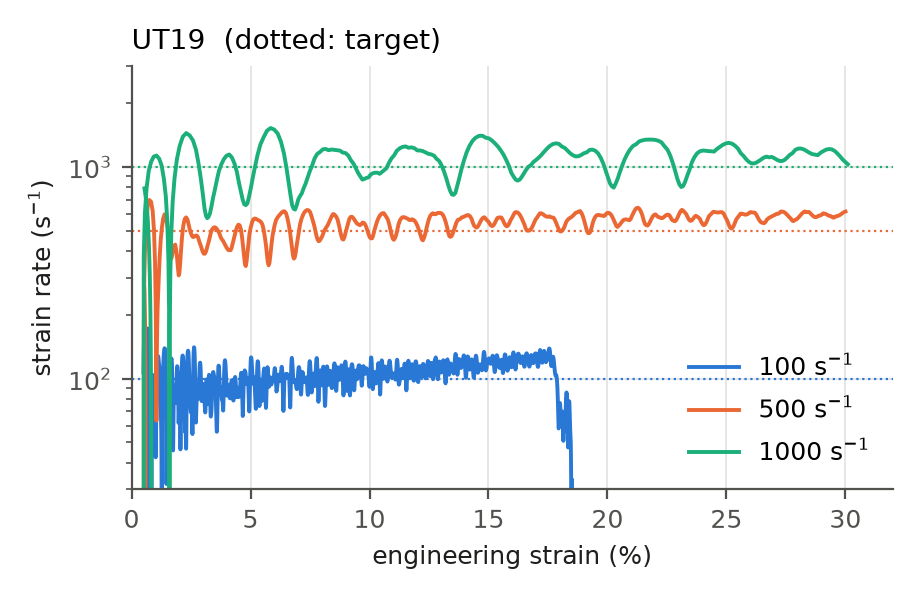
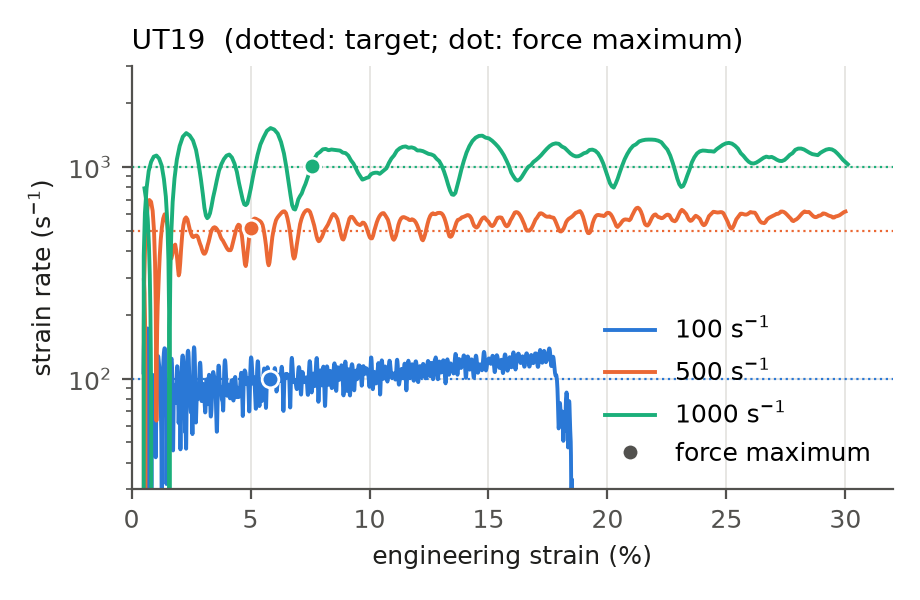
report.md : structure complete pour la Task I

diff --git a/shpb-ut-equilibrium/results/taskI_20261013-1554/report/report.md b/shpb-ut-equilibrium/results/taskI_20261013-1554/report/report.md
@@ -1,18 +1,37 @@
 # Task I - Force equilibrium and loading speeds in the SHPB with load inversion device
 
-Study `taskI_20261013-1554`, specimens: UT19. Generated by `scripts/post/report_taskI.py`; all numbers below are computed from the simulation outputs.
+Study `taskI_20261013-1554`, specimens: UT19. Generated by `scripts/post/report_taskI.py`; all numbers in the results sections are computed from the simulation outputs.
 
-## 1. Simulation and signal processing
+Questions of Task I: (1) can quasi-static force equilibrium be achieved in the specimen at nominal strain rates of 100, 500 and 1000 s⁻¹, and (2) which loading speeds are required to reach an engineering strain of 30 %?
 
-The complete bench (5 m striker, 6.01 m input bar, load inversion device, output bar and specimen) is modelled in Abaqus/Explicit using the symmetry plane (half model), without mass scaling. The specimen material is DP1000 with a rate-independent von Mises / isotropic hardening law: differences between strain rates therefore come from wave propagation and inertia only, not from material rate sensitivity.
+## 1. Model and assumptions
 
-The simulated signals are processed as in the experiments. Forces and strain are low-pass filtered (4th-order Butterworth, 100 kHz cut-off, zero phase), the cut-off used for the output bar strain gauge signal in the laboratory. The axial force is taken in two cross-sections at both ends of the specimen parallel section (F_in on the load inversion device side, F_out on the output bar side) and, as in the experiment, from the strain gauge on the output bar (F = A E ε). The gauge signal is shifted in time by 400 mm / 4871 m/s = 82 µs to the specimen (no dispersion correction). The engineering strain is measured by a 12 mm virtual extensometer on the parallel section, equivalent to the DIC extensometer.
+| Item | Model |
+|---|---|
+| Bench | Ø20 mm steel striker (5 m), maraging input bar (6.01 m), load inversion device (pusher), specimen and output bar (≈ 6 m), as in Beerli et al. (2026); virtual strain gauges at 400 mm on the input and output bars |
+| Symmetry | half model (symmetry plane through the bar axes) |
+| Mesh | bars and pusher rod: swept C3D8R, 5 mm axially, 2 mm in the section; pusher head and output bar head: C3D10M tetrahedra, 2 mm (M4 holes removed, small fillets merged by virtual topology); specimen: C3D8R, 0.5 mm in plane, 4 elements through the 1.5 mm thickness; ≈ 214 000 elements |
+| Solver | Abaqus/Explicit, double precision, **no mass scaling** (inertia is the studied effect); initial stable time increment ≈ 2e-8 s |
+| Bars and pusher | linear elastic maraging steel, E = ρc² with the measured wave speed c = 4871 m/s and ρ = 8000 kg/m³ (assumed); striker c = 4720 m/s, ρ = 7850 kg/m³ (assumed) |
+| Specimen | DP1000 (Beerli et al. 2026, table 4): E = 195 GPa, ν = 0.33, ρ = 7850 kg/m³, von Mises yield surface, isotropic Swift-Voce hardening, **rate independent**, no thermal effects, no fracture (same simplified material as the numerical study of the bench in Beerli et al. 2026, §2.5.1) |
+| Contacts | striker / input bar and input bar / pusher: hard, frictionless; specimen shoulders / clamping pockets: hard, friction 0.2 (Roth et al. 2015). The specimen lies in the pockets without pre-load or top clamp |
+| Ties | pusher rod / pusher head and output bar / output bar head (change of mesh type) |
+| Guides | vertical displacement blocked on the sliding face of the pusher and on the axes of the bars (slide and bearings of the bench). Without them the pusher pitched under the eccentric load (output bar axis 21.5 mm above the input bar axis) |
+| Loading | initial velocity of the striker (Table T1) |
 
-Force equilibrium is quantified by R = (F_in - F_out) / F_mean with F_mean = (F_in + F_out) / 2. The specimen is considered in equilibrium when |R| < 5 %. The reported equilibrium strain is the strain from which |R| stays below this limit until 30 % strain (or until the end of loading). The achieved strain rate is the slope of the extensometer strain between 5 % strain and min(25 %, 0.8 x maximum strain), i.e. the strain gained in this interval divided by the time taken. The interval excludes the start-up transient (rise of the incident pulse, settling of the specimen shoulders in the pockets, build-up of the specimen force up to its maximum at about 5 % strain) and the end of the loading, so that it covers the established regime described by the striker velocity estimate (section 2). The complete strain rate history is given in F4.
+## 2. Signal processing and definitions
 
-## 2. Results
+The simulated signals are processed as in the experiments. Forces and strain are low-pass filtered (4th-order Butterworth, 100 kHz cut-off, zero phase), the cut-off used for the output bar strain gauge signal in the laboratory (Roth et al. 2015): the simulation writes one point per microsecond and contains vibrations of a few microseconds that the experiment cannot resolve. The effect of the filter is shown in Table T2.
 
-**Table T1** - Test conditions and equilibrium indicators (`T1_conditions.csv`).
+The force in the specimen is taken in two cross-sections at both ends of the parallel section (F_in on the load inversion device side, F_out on the output bar side). These exact forces are used to answer the equilibrium question. In the experiment only the strain gauge of the output bar is available (F = A E ε); its simulated signal is shifted in time by 400 mm / 4871 m/s = 82 µs to the specimen (no dispersion correction) and used in section 4 only. The engineering strain is measured by a 12 mm virtual extensometer on the parallel section, equivalent to the DIC extensometer.
+
+Force equilibrium is quantified by R = (F_in - F_out) / F_mean with F_mean = (F_in + F_out) / 2, and the specimen is considered in equilibrium when |R| < 5 %. The equilibrium strain is the strain from which |R| stays below this limit until 30 % strain (or until the end of loading). The loading start is the first instant where F_in exceeds 2 % of its maximum.
+
+The achieved strain rate is the slope of the extensometer strain between 5 % strain and min(25 %, 0.8 x maximum strain), i.e. the strain gained in this interval divided by the time taken. The interval excludes the start-up transient (rise of the incident pulse, settling of the specimen shoulders in the pockets, build-up of the specimen force up to its maximum at about 5 % strain) and the end of the loading, so that it covers the established regime described by the striker velocity estimate (section 3.2). The complete strain rate history is given in F4 and other definitions in Table T3.
+
+## 3. Task I answers
+
+**Table T1** - Test conditions and indicators (`T1_conditions.csv`).
 
 | case | target rate (1/s) | striker velocity (m/s) | incident strain (-) | achieved rate (1/s) | time to 30 % (ms) | max strain reached (-) | max force (kN) | strain at max force (-) | equilibrium from strain (-) | equilibrium after (ms) | max \|R\| after 5 % (-) | max \|dF\| after 5 % (kN) | max gauge error after 5 % (-) | hourglass / internal energy (-) |
 |---|---|---|---|---|---|---|---|---|---|---|---|---|---|---|
@@ -22,25 +41,59 @@ Force equilibrium is quantified by R = (F_in - F_out) / F_mean with F_mean = (F_
 
 Striker velocities taken from: calculation input.
 
-### Force equilibrium
+### 3.1 Force equilibrium
 
 ![F1](F1_equilibrium.png)
 
-**Figure F1** - Equilibrium ratio R as a function of the engineering strain. Shaded band: |R| < 5 %.
+**Figure F1** - Equilibrium ratio R (exact section forces, filtered) as a function of the engineering strain. Shaded band: |R| < 5 %.
+
+- **UT19, 100 s⁻¹** (striker 2.48 m/s): force equilibrium (|R| < 5 %) is established at 0.9 % strain (0.29 ms after loading start) and holds until the end of the loading (max |R| after 5 % strain: 0.9 %).
+- **UT19, 500 s⁻¹** (striker 7.69 m/s): force equilibrium (|R| < 5 %) is established at 2.5 % strain (0.12 ms after loading start) and holds until the end of the loading (max |R| after 5 % strain: 3.8 %).
+- **UT19, 1000 s⁻¹** (striker 14.20 m/s): force equilibrium is **only partly reached**: |R| stays below 5 % from 2.7 % to 13.7 % strain, but reaches 13.2 % at other instants after 5 % strain (|F_in - F_out| up to 0.60 kN, i.e. 8.0 % of the maximum force).
+
+In all cases the first few tens of microseconds show a short force pulse followed by a drop to zero before continuous loading starts (F2). This is most likely the impact of the specimen shoulders in the clamping pockets, the specimen being inserted without pre-load; it produces the large values of R below about 2 % strain in F1.
+
+The maximum force is reached at about 5 to 8 % strain; the force then decreases (necking). The same force difference therefore gives a larger ratio R late in the test, which is why the maximum absolute difference |F_in - F_out| after 5 % strain is also given in Table T1.
+
+**Table T2** - Effect of the 100 kHz filter on the equilibrium indicators (exact section forces).
+
+| case | equilibrium from strain, unfiltered | equilibrium from strain, filtered | max \|R\| after 5 %, unfiltered | max \|R\| after 5 %, filtered |
+|---|---|---|---|---|
+| UT19_R0100_00 | 0.9 % | 0.9 % | 1.1 % | 0.9 % |
+| UT19_R0500_00 | 10.0 % | 2.5 % | 5.5 % | 3.8 % |
+| UT19_R1000_00 | n/a | n/a | 15.5 % | 13.2 % |
+
+### 3.2 Loading speeds
+
+![F4](F4_strain_rate.png)
+
+**Figure F4** - Strain rate (extensometer) as a function of the engineering strain; dotted lines: target rates; dots: force maximum.
+
+**Table T3** - Strain rate of each simulation with different definitions (s⁻¹).
+
+| case | target | achieved (5-25 %) | at force maximum | nominal (ε_end / loading time) | before force maximum (10th-90th percentile) | after force maximum (10th-90th percentile) |
+|---|---|---|---|---|---|---|
+| UT19_R0100_00 | 100 | 105 | 100 | 87 | 51 to 120 | 63 to 124 |
+| UT19_R0500_00 | 500 | 546 | 516 | 475 | -147 to 531 | 481 to 606 |
+| UT19_R1000_00 | 1000 | 1073 | 1010 | 915 | -114 to 1201 | 880 to 1282 |
+
+After the force maximum the strain rate is established close to the target and increases slowly, because the specimen force decreases (necking) and brakes the bench less. Before the force maximum, i.e. during the uniform hardening phase, the strain rate is not yet stable at the higher rates (negative values: rebound of the specimen in the pockets).
+
+![F5](F5_striker_velocity.png)
+
+**Figure F5** - Striker velocity (vertical axis, setting of the test) required for a given strain rate (horizontal axis). Line: estimate used to set up the simulations. Dots: simulations, placed at the striker velocity imposed and at the achieved strain rate (Table T3).
+
+The striker velocity is estimated from the elongation rate of the load inversion device, v ≈ 2 v_i - 2 F / (ρ c A), where v_i = 0.487 V_striker is the particle velocity of the incident wave (impedance ratio of striker and bar) and F the specimen force: the specimen force both slows the inverter down and pushes the output bar. Hence V_striker = (ε̇ × L_eff + 2F/ρcA) / (2 × 0.487), with L_eff = 12.7 mm and F = 7 kN for the UT19. L_eff is an effective gauge length relating the elongation rate to the extensometer strain rate; it was calibrated on a first simulation at 500 s⁻¹, and F is the typical specimen force (6.4 to 7.6 kN in the simulations). A first estimate without the force term (V = ε̇ × 15 mm) gave only 21 s⁻¹ instead of 100 s⁻¹, because the specimen force is then almost as large as the force carried by the incident wave.
+
+**Limit for 30 % strain.** The 5 m striker gives a 2.12 ms loading pulse, so 30 % strain requires at least 0.30 / 2.12 ms ≈ 142 s⁻¹ (shaded region in F5); the output bar (5.99 m) also limits the measurement window to 2.33 ms (Beerli et al. 2026). At 100 s⁻¹ (UT19), the strain stops at 18.5 %; reaching 30 % would need a loading of about 3.1 ms (0.30 / 105 s⁻¹ + 0.28 ms start-up), i.e. a striker of about 7.4 m, almost the length of the 7.5 m launch tube (no room left to accelerate it), and a loading longer than the measurement window of the output bar.
+
+## 4. What the experiment will measure
+
+In the experiment the force is only known from the output bar gauge. Figures F2 and F3 compare this signal, as it would be recorded, with the exact force in the specimen.
 
 ![F2](F2_forces_UT19.png)
 
 **Figure F2 (UT19)** - Forces at the specimen input and output sections and force measured by the output bar gauge, shifted to the specimen.
-
-- **UT19, 100 s⁻¹** (striker 2.48 m/s): 30 % strain is **not reached**: the strain stops at 18.5 % when the 2.12 ms pulse ends (105 s⁻¹). Force equilibrium (|R| < 5 %) is established at 0.9 % strain (0.29 ms after loading start) and holds until the end of the useful window (max |R| after 5 % strain: 0.9 %).
-- **UT19, 500 s⁻¹** (striker 7.69 m/s): 30 % strain reached 0.63 ms after loading start, at 546 s⁻¹. Force equilibrium (|R| < 5 %) is established at 2.5 % strain (0.12 ms after loading start) and holds until the end of the useful window (max |R| after 5 % strain: 3.8 %).
-- **UT19, 1000 s⁻¹** (striker 14.20 m/s): 30 % strain reached 0.33 ms after loading start, at 1073 s⁻¹. Force equilibrium is **not maintained**: after 5 % strain |R| reaches 13.2 % (|F_in - F_out| up to 0.60 kN, i.e. 8.0 % of the maximum force).
-
-In all cases the first few tens of microseconds show a short force pulse followed by a drop to zero before continuous loading starts (F2). This is most likely the impact of the specimen shoulders in the clamping pockets, the specimen being inserted without pre-load; it produces the large values of R below about 2 % strain in F1.
-
-Since the force decreases after the maximum (necking), the same force difference gives a larger ratio R late in the test. The maximum absolute difference |F_in - F_out| after 5 % strain is therefore also given in Table T1.
-
-### Measured stress-strain response
 
 ![F3](F3_stress_strain.png)
 
@@ -50,23 +103,36 @@ Since the force decreases after the maximum (necking), the same force difference
 - UT19, 500 s⁻¹: maximum force 7.56 kN at 5.0 % strain; the output bar gauge deviates from the specimen force by up to 15.0 % of the maximum force after 5 % strain.
 - UT19, 1000 s⁻¹: maximum force 7.58 kN at 7.6 % strain; the output bar gauge deviates from the specimen force by up to 38.9 % of the maximum force after 5 % strain.
 
-The force in the specimen itself is smooth, whereas the output bar gauge signal oscillates around it, with an amplitude that grows with the loading speed. These oscillations are generated between the specimen and the gauge (clamping head of the output bar) and would be present in the measured stress-strain curve.
+The force in the specimen is smooth, whereas the output bar gauge signal oscillates around it, with an amplitude that grows with the loading speed. An oscillating measured curve therefore does not mean that the specimen is out of equilibrium. The origin of these oscillations has not been identified yet: they appear between the specimen and the gauge and may come from the clamping head of the output bar or from its modelling (tetrahedral mesh tied to the bar). This must be checked before comparing with the experiments.
 
-### Loading speeds
+## 5. Numerical quality
 
-![F4](F4_strain_rate.png)
+| case | incident strain, simulated / theory | initial kinetic energy / ½ m V² | total energy drift / initial energy | hourglass / internal energy |
+|---|---|---|---|---|
+| UT19_R0100_00 | 1.000 | 0.994 | 0.00 % | 0.4 % |
+| UT19_R0500_00 | 1.000 | 0.994 | 0.00 % | 0.5 % |
+| UT19_R1000_00 | 1.000 | 0.994 | 0.00 % | 0.2 % |
 
-**Figure F4** - Strain rate (extensometer) as a function of the engineering strain; dotted lines: target rates.
+Theory: incident strain = 0.487 V_striker / c; ½ m V² with the nominal striker mass. The small differences come from the faceted mesh of the cylinders. The hourglass energy stays well below the usual 5 % limit.
 
-![F5](F5_striker_velocity.png)
+## 6. Limitations
 
-**Figure F5** - Striker velocity (vertical axis, setting of the test) required for a given strain rate (horizontal axis). Line: estimate used to set up the simulations. Dots: simulations, placed at the striker velocity imposed and at the strain rate achieved (slope between 5 % and 25 % strain, see section 1).
-
-The striker velocity is estimated from the elongation rate of the load inversion device, v ≈ 2 v_i - 2 F / (ρ c A), where v_i = 0.487 V_striker is the particle velocity of the incident wave and F the specimen force: the specimen force both slows the inverter and pushes the output bar. With an effective length of 12.7 mm and F = 7 kN for the UT19 specimen this gives V_striker = (ε̇ × 12.7 mm + 2F/ρcA) / (2 × 0.487). With the 5 m striker the loading pulse lasts 2.12 ms, so 30 % strain requires at least 0.30 / 2.12 ms ≈ 142 s⁻¹ (shaded region in F5).
-
-## 3. Limitations
-
-- Rate-independent specimen material: in the experiments the force level, and hence the required striker velocity, will increase with the strain rate.
+- Rate-independent specimen material: in the experiments the force level, and hence the required striker velocity (term 2F/ρcA), will increase with the strain rate.
+- The striker velocity estimate relies on L_eff calibrated on one simulation and on a constant specimen force F.
 - The output bar gauge signal is shifted, not corrected for dispersion; the exact reference of the 400 mm gauge distance is to be confirmed (about 6 µs uncertainty).
-- Numerical quality: the hourglass energy stays below 0.5 % of the internal energy in all cases.
+- The origin of the oscillations of the output bar gauge (section 4) is not identified yet.
+- Assumed values: densities of the bars and of the striker, material of the pusher (maraging).
+- The long-gauge specimen (UT40) is not simulated yet (geometry not available).
+
+## 7. Conclusions
+
+| specimen | target rate | force equilibrium (\|R\| < 5 %) | striker velocity | 30 % reached | max error of the output gauge |
+|---|---|---|---|---|---|
+| UT19 | 100 s⁻¹ | yes, from 0.9 % strain | 2.48 m/s (105 s⁻¹ achieved) | no: 18.5 % max (pulse too short) | 3 % |
+| UT19 | 500 s⁻¹ | yes, from 2.5 % strain | 7.69 m/s (546 s⁻¹ achieved) | yes, in 0.63 ms | 15 % |
+| UT19 | 1000 s⁻¹ | partial: \|R\| < 5 % from 3 % to 14 % strain, up to 13 % elsewhere after 5 % strain | 14.20 m/s (1073 s⁻¹ achieved) | yes, in 0.33 ms | 39 % |
+
+- Equilibrium is reached early and maintained at the lower rates; at the highest rate it is only partly reached, the largest differences occurring late in the test, when the force decreases.
+- The striker velocity must account for the specimen force (V_striker formula, F5); 30 % strain cannot be reached below about 142 s⁻¹ with the 5 m striker.
+- Even when the specimen is in equilibrium, the output bar gauge oscillates around the specimen force: this has to be considered when assessing the quality of the measured curves.
 
